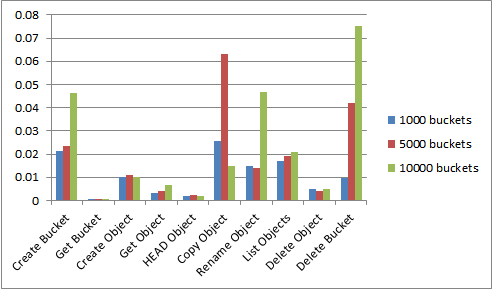
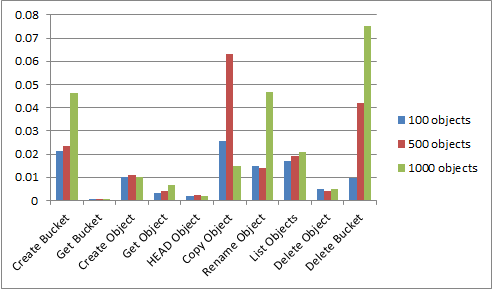
Fix labels of response time graphs.

diff --git a/leofs/benchmark/leofs/20140408/README.md b/leofs/benchmark/leofs/20140408/README.md
@@ -45,6 +45,8 @@ Env
 Results
 =======
 
+The vertical axis of each graphs show response time in seconds.
+
  **different num of buckets cases**
 * 1000 buckets x 100 objects
   ![1000 buckets x 100 objects](test_results/different_num_of_buckets/1000bckt_100obj.png)
